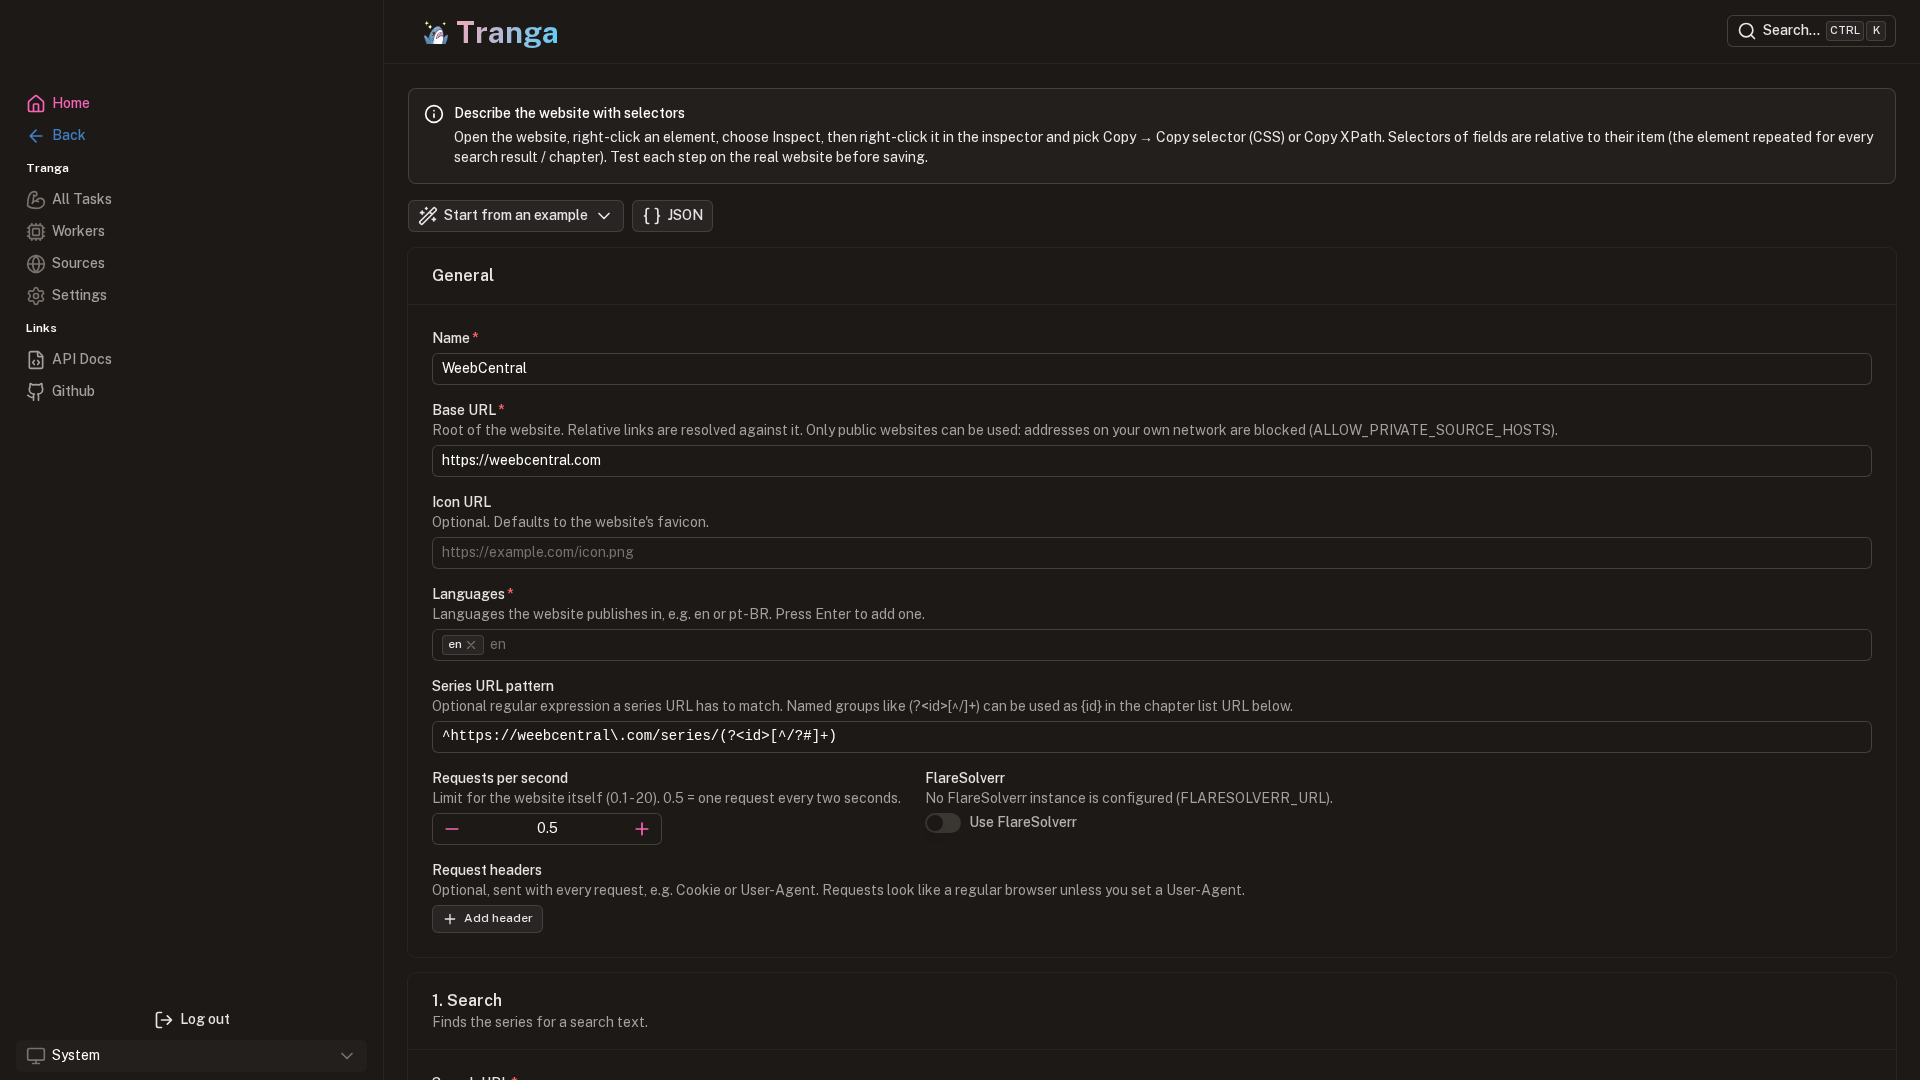
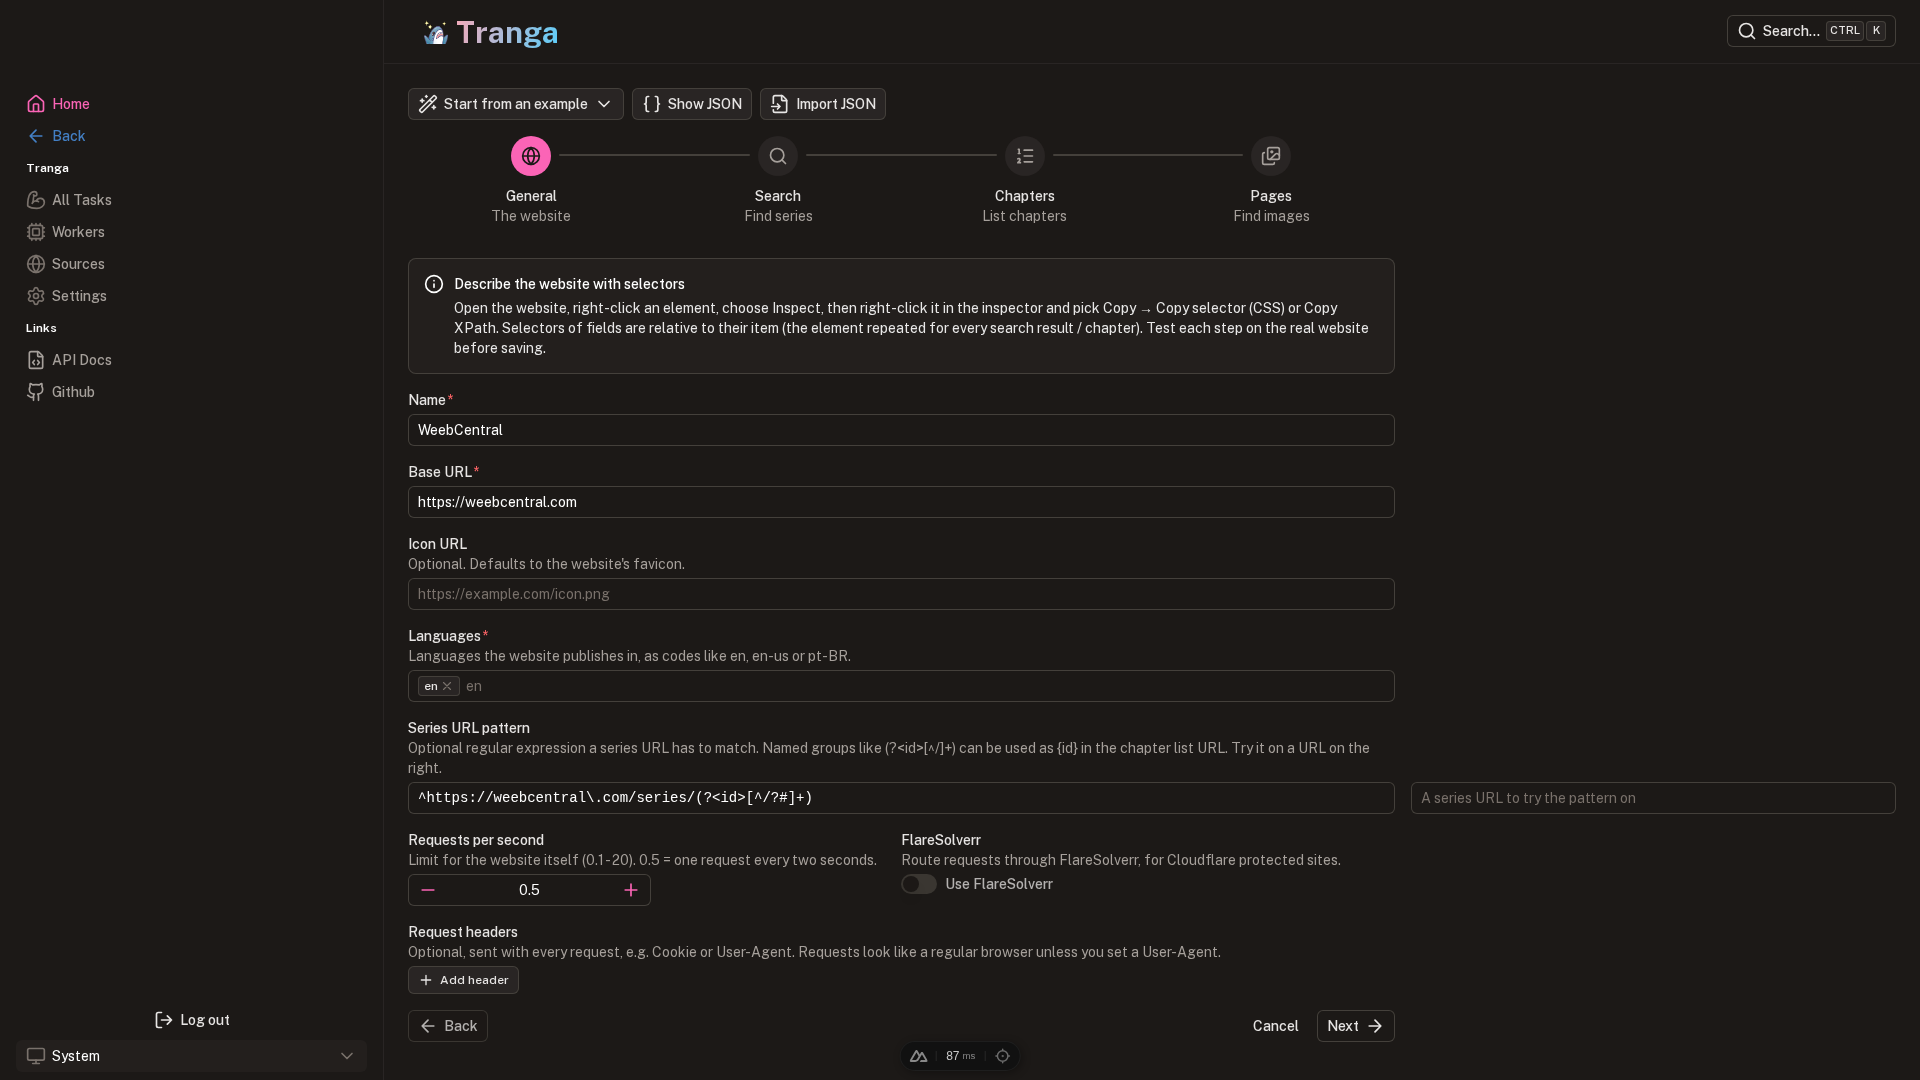
Update the README and the sources screenshots for the stepper form
- README (Custom sources): describe the stepper (General + three steps), the
  testing sidebar with its Test buttons and the buttons that fill in the next
  test, the General step (base URL, language codes, series URL pattern preview),
  and Show JSON / Import JSON / Start from an example.
- settings-sources-new.png and settings-sources-test.png regenerated with
  `npm run screenshots -- --only-sources` (the general step, and the search
  step with its results in the sidebar). The list screenshots show pages that did
  not change.

diff --git a/README.md b/README.md
@@ -67,8 +67,10 @@ The Settings overview additionally offers **Replay first-download tour** (restar
 ### Custom sources
 
 Under **Settings → Sources → Add custom source** you can teach Tranga a website by pasting selectors, no code needed.
-A source consists of three steps, and every step has a **Test** button that runs it against the real website and shows what
-the selectors extracted, so you can fix them before saving:
+The form is a stepper: **General** (the website itself) followed by the three steps below. Each of those steps is tried from
+the testing sidebar on the right: enter a search text, a series URL or a chapter URL and press **Test**. The step runs against
+the real website and the sidebar shows what the selectors extracted, so you can fix them before saving. The buttons next to a
+search or chapter result fill in the test of the next step. The source can only be created on the last step.
 
 1. **Search**: a URL (`{query}` is the URL-encoded search text), a selector for one element per result, and fields for
    title, link and cover image.
@@ -85,9 +87,13 @@ text; `srcset,src` tries several), and optionally a regular expression (the firs
 every match is replaced). Selectors of fields are relative to their item, XPaths copied from the browser (`//div/a`) work too.
 CSS supports `:not()`, `:has()`, `:contains()` and the other usual selectors. Relative links are resolved for you.
 
-Further settings: languages, a series URL pattern (named groups such as `(?<id>[^/]+)` can be used as `{id}` in the chapter and
-page URLs), request headers (e.g. `Cookie`; requests look like a regular browser unless you set a `User-Agent`), a rate limit,
-and whether to use FlareSolverr. A source can be exported and imported as JSON.
+The **General** step holds the name, the base URL (a trailing `/` is removed), an icon, the languages (codes such as `en`,
+`en-us` or `pt-BR`), a series URL pattern (named groups such as `(?<id>[^/]+)` can be used as `{id}` in the chapter and page
+URLs; try it on a URL in the sidebar to see whether it matches and which groups it captures), request headers (e.g. `Cookie`;
+requests look like a regular browser unless you set a `User-Agent`), a rate limit, and whether to use FlareSolverr.
+
+**Start from an example** fills the form with a built-in definition. **Show JSON** displays the source as JSON (with a Copy
+button) and **Import JSON** fills the form from a pasted definition, so sources can be shared.
 
 Good to know:
 
@@ -204,8 +210,8 @@ the login page will show the setup screen again on next load.
 <img src="Screenshots/manga.png" width="512" alt="manga page"/>
 <img src="Screenshots/manga-light.png" width="512" alt="light mode manga page"/>
 <img src="Screenshots/settings-sources.png" width="512" alt="settings: sources"/>
-<img src="Screenshots/settings-sources-new.png" width="512" alt="settings: creating a custom source"/>
-<img src="Screenshots/settings-sources-test.png" width="512" alt="settings: testing the search step of a custom source"/>
+<img src="Screenshots/settings-sources-new.png" width="512" alt="settings: the general step of creating a custom source"/>
+<img src="Screenshots/settings-sources-test.png" width="512" alt="settings: testing the search step of a custom source, with the results in the sidebar"/>
 <img src="Screenshots/settings-sources-custom.png" width="512" alt="settings: sources with a custom source"/>
 <img src="Screenshots/settings-appearance.png" width="512" alt="settings: appearance"/>
 
